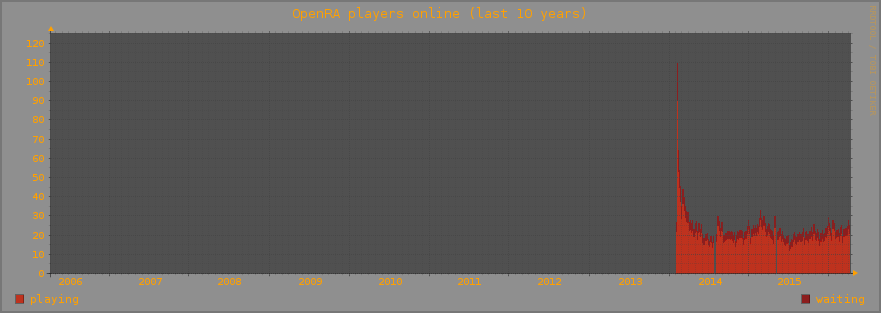
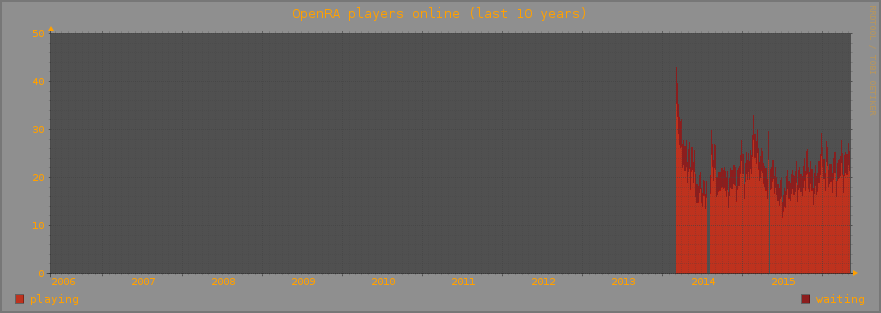
update db

diff --git a/log/redraw.ts b/log/redraw.ts
@@ -1,1 +1,1 @@
-2016-04-06 08:00:07
+2016-05-07 10:15:24
